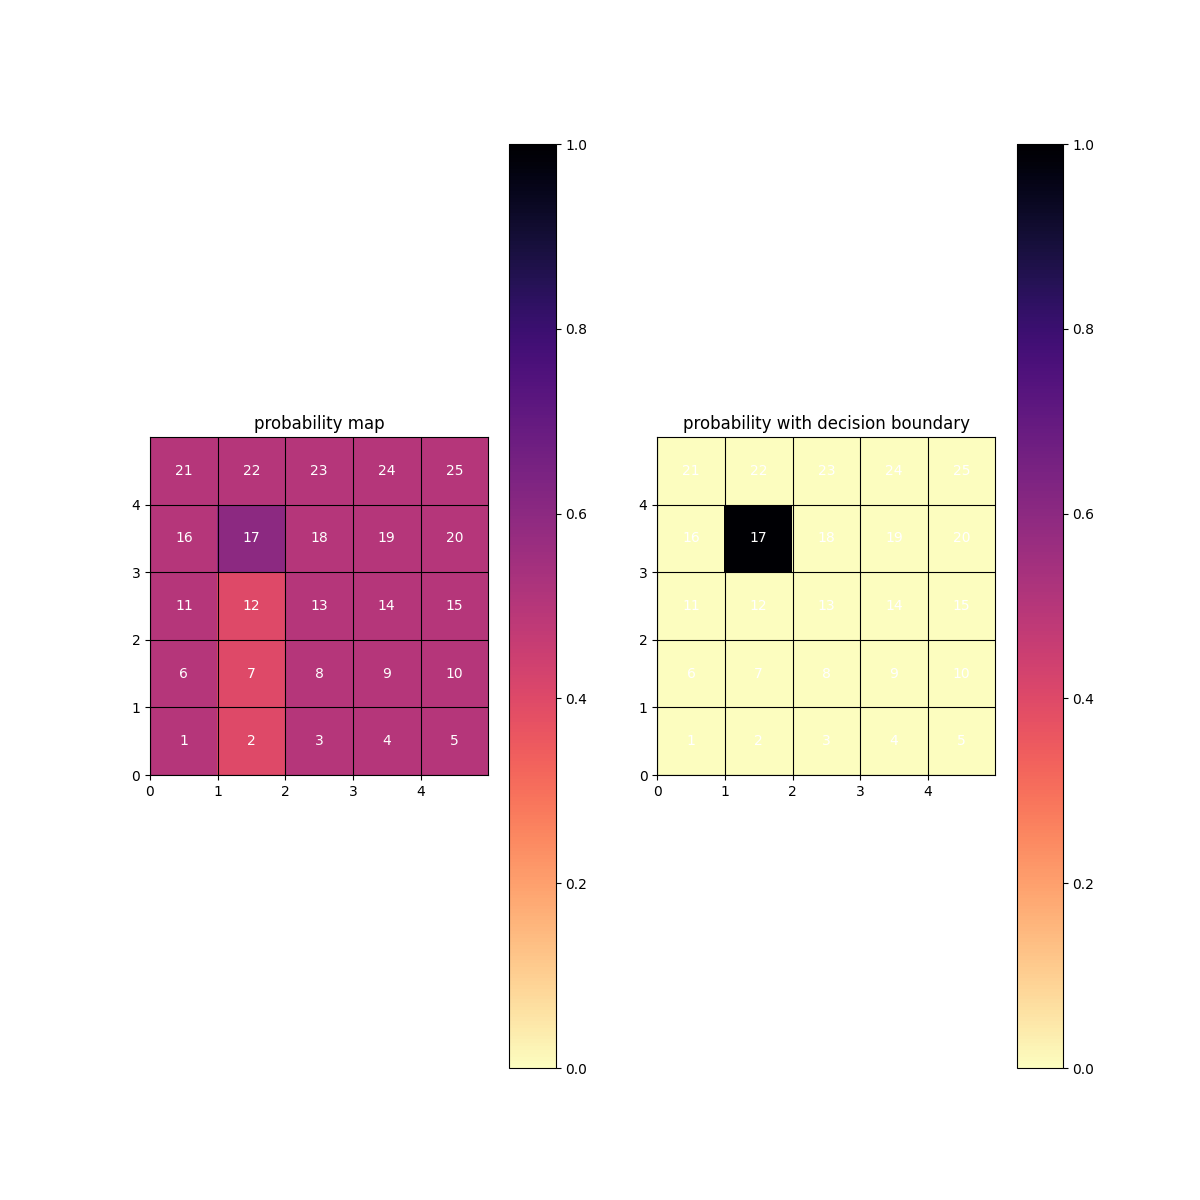
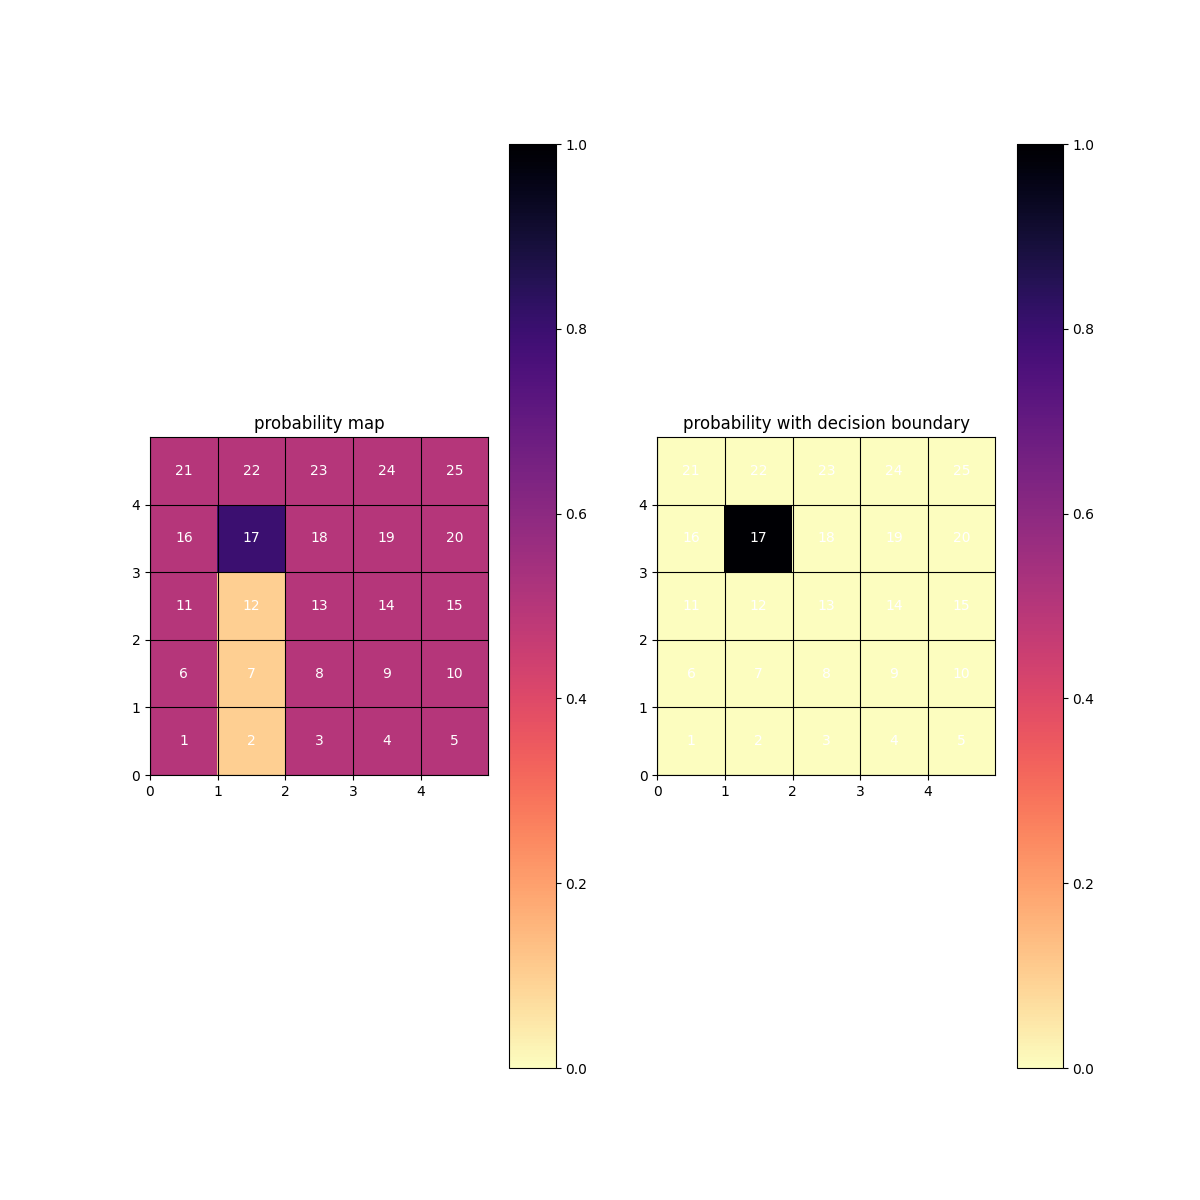
minor change

Changed region(s): [[0.1542, 0.4008, 0.2467, 0.6475]]

diff --git a/pi/mapping.py b/pi/mapping.py
@@ -84,7 +84,7 @@ def discretize_mapping(mapping, decision_boundary=DEC_BOUNDARY):
 if __name__ == "__main__":
     print(MAP_SIZE)
     mapping = Mapping(MAP_SIZE, L2R, 1)
-    mapping.update_log_odds([(1,0),(1,1),(1,2),(1,3),(1,4)],[0.4,0.4,0.4,0.6])
-    mapping.update_log_odds([(1,1),(2,1),(3,1),(4,1)],[0.4,0.4,0.4,0.6])
+    mapping.update_log_odds([(1,0),(1,1),(1,2),(1,3),(1,4)],[0.1,0.1,0.1,0.8])
+    mapping.update_log_odds([(1,1),(2,1),(3,1),(4,1)],[0.1,0.1,0.1,0.8])
 
     mapping.export((1,0),(1,0))
